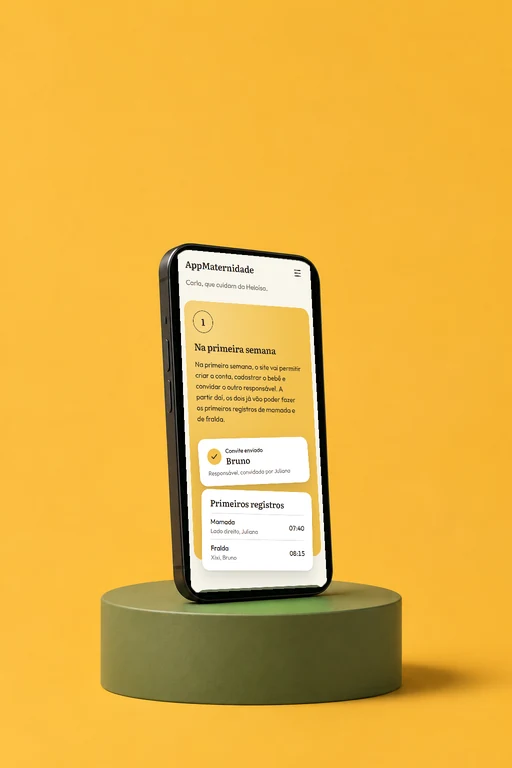
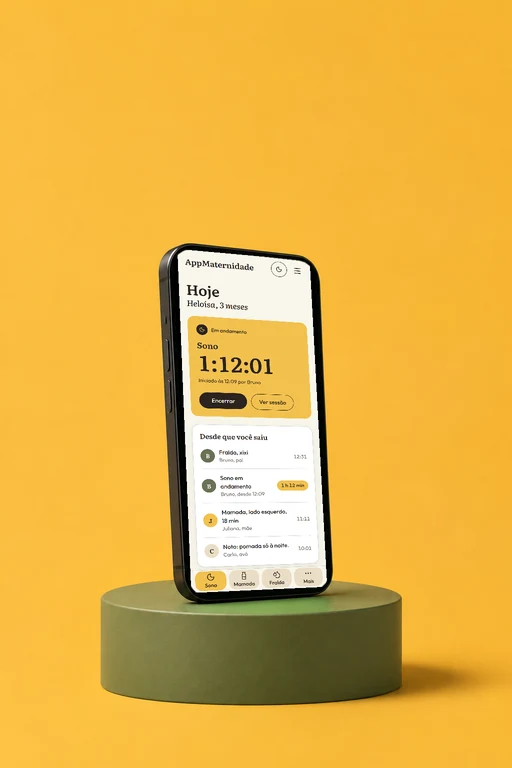
Recompõe as cenas de estúdio com as telas novas do app

Changed region(s): [[0.3438, 0.3125, 0.625, 0.7812]]

diff --git a/web/public/cenas/publicas/PROVENANCE.md b/web/public/cenas/publicas/PROVENANCE.md
@@ -6,3 +6,12 @@
 | desenvolvimento@1x.webp, desenvolvimento@2x.webp | `brutos/S3_tablets_cacau.png` (sha256 8d72fa3432647217545f9387bacfa310ce167c7592ec6a1554ed6521ea3d261d), same compositor with two real captures of this site at 390x844, scale 2 (`/desenvolvimento` scrolled 1100 px and 2600 px) | Codex image_gen (ChatGPT plan) for the scene; the screens are our own captures | 2026-11-11 | S3_tablets_cacau |
 
 Output sha256: `como-funciona@1x.webp` 26ac2d4cd38c7f3b753abcfc2ec20fc96121ae5ffc0d11b8afbad83b212983e7, `como-funciona@2x.webp` 080f5022d36bbb0f3ce7bd3e5c238601ac959af970c354d652333c01947ee19a, `desenvolvimento@1x.webp` 0df7d94fc5bb0c3aef7ae8e9542dfdbf80b20fd145b57acc30c53f49ab9b383c, `desenvolvimento@2x.webp` b1c092365c2098579c7101b11ed9f405cb82d9d2403f447d784f2b7f934d9db9. `compor.py` reported `verde_restante: 0` for both. The captures carry no "Protótipo" or "dados de exemplo" text (checked on the visible DOM text of each capture). The files keep these fixed names; card MAT-49d recomposes them later with the new app screens, with no code change.
+
+## Recomposed by MAT-49d (2026-11-11)
+
+Same scene sources and compositor (`compor.py`, `verde_restante: 0`); the screens are now window captures (not full-page) of the new app screens, deviceScaleFactor 2, reduced motion, from the MAT-49d worktree on base a8cad7d. Each capture height matches the aspect of its green screen, so the top of the screen is shown with no crop distortion. No "Protótipo" or "dados de exemplo" in the visible text of any capture.
+
+- como-funciona@1x.webp: scene `brutos/S2_unico_mel.png`; captures: Hoje (day) 390x1013; 2026-11-11; sha256 df97cd2ad79ebc160ec6a07bc6c19f7ab91276fc97d2a354e2fd586d607e8da4
+- como-funciona@2x.webp: scene `brutos/S2_unico_mel.png`; captures: Hoje (day) 390x1013; 2026-11-11; sha256 21a8ac7792bbbe038567711407952b89ea35eaad5f2be69e8819a6292fa88d1b
+- desenvolvimento@1x.webp: scene `brutos/S3_tablets_cacau.png`; captures: Sessão 900x1023, Hoje (day) 820x1123; 2026-11-11; sha256 76d77a7132bee01d252907db20c88389b9da9178a38ece5d84f4de185c8faec6
+- desenvolvimento@2x.webp: scene `brutos/S3_tablets_cacau.png`; captures: Sessão 900x1023, Hoje (day) 820x1123; 2026-11-11; sha256 51152c448ba6495f94c787323a5f792c01e23e296168d385b9957a424e136bfd

diff --git a/web/public/cenas/inicio/PROVENANCE.md b/web/public/cenas/inicio/PROVENANCE.md
@@ -16,3 +16,14 @@ Output sha256:
 - faixa-cacau@2x.webp 1f627752cf43caee885dbfefc5f6120a43b81f4bb065479c6dc6599e05c197d9
 - tabela@1x.webp f376e575952336c336d1dea7ef298c5e73da2e6c9d4d2c875db3cd920ad2867b
 - tabela@2x.webp ebe9d4a8374ca0926682183d110befa46121ec689603c28534172f92d41a9dff
+
+## Recomposed by MAT-49d (2026-11-11)
+
+Same scene sources and compositor (`compor.py`, `verde_restante: 0`); the screens are now window captures (not full-page) of the new app screens, deviceScaleFactor 2, reduced motion, from the MAT-49d worktree on base a8cad7d. Each capture height matches the aspect of its green screen, so the top of the screen is shown with no crop distortion. No "Protótipo" or "dados de exemplo" in the visible text of any capture.
+
+- heroi@1x.webp: scene `brutos/S1_trio_mel.png`; captures: Hoje (day) 390x1102, Hoje (Madrugada) 390x853, Sessão 390x1013; 2026-11-11; sha256 6616e183bc01fe4cee471625834535e91b194642a2b5ccf4920b2c78343a9d70
+- heroi@2x.webp: scene `brutos/S1_trio_mel.png`; captures: Hoje (day) 390x1102, Hoje (Madrugada) 390x853, Sessão 390x1013; 2026-11-11; sha256 5bb7e98daf18c80a2728d71fb9d4265195fb5d8158c52ad479cff827a0c63cfc
+- faixa-cacau@1x.webp: scene `brutos/S3_tablets_cacau.png`; captures: Hoje (day) 820x1123, Sessão 900x1023; 2026-11-11; sha256 baaef7cc40ef79eb75e486a57491405ffdf7c88777ba982773855c039868c3d6
+- faixa-cacau@2x.webp: scene `brutos/S3_tablets_cacau.png`; captures: Hoje (day) 820x1123, Sessão 900x1023; 2026-11-11; sha256 78d7e5e496373878e8008e000372d939dae869b07b233693df1b4d4b3f69f5c6
+- tabela@1x.webp: scene `brutos/S4_celular_linho.png`; captures: Hoje (day) 390x850; 2026-11-11; sha256 f65156590a9e7619e516ad662f440835ef0fefd2013cd7264e7d02f6ab12bb47
+- tabela@2x.webp: scene `brutos/S4_celular_linho.png`; captures: Hoje (day) 390x850; 2026-11-11; sha256 ee5fe93871ca5ef51f5739b4e48d9061d40dcf539b354cd2b7aa70e8017f2e84

diff --git a/web/public/cenas/acesso/PROVENANCE.md b/web/public/cenas/acesso/PROVENANCE.md
@@ -5,3 +5,10 @@
 | entrar@1x.webp, entrar@2x.webp | `brutos/S2_unico_mel.png` (sha256 e3557a14de3efbd2e00c619cfecf94dd9f5493d3670a8d4ad859ca7a435b8f94), green-key scene composited by `DIRECOES_20261111/ferramentas/compor.py` with one real capture of this site at 390x844, scale 2 (`/app/conta` scrolled to the "Perfil" section) | Codex image_gen (ChatGPT plan) for the scene; the screen is our own capture | 2026-11-11 | S2_unico_mel |
 
 Output sha256: `entrar@1x.webp` 250f80050258c8f40bb8dfd5cde2112b63b4efe489f270605b1331b1ae6aaac1, `entrar@2x.webp` 243a3df9f58a13e8387d2cef58aadbd12bcd30b2591b2b11f18a38b97e0b8221. `compor.py` reported `verde_restante: 0`. Used by Entrar, Criar conta, Recuperar acesso and Começar through `CenaAcesso`. MAT-49d recomposes the same file names with the new Hoje/Sessão screens.
+
+## Recomposed by MAT-49d (2026-11-11)
+
+Same scene sources and compositor (`compor.py`, `verde_restante: 0`); the screens are now window captures (not full-page) of the new app screens, deviceScaleFactor 2, reduced motion, from the MAT-49d worktree on base a8cad7d. Each capture height matches the aspect of its green screen, so the top of the screen is shown with no crop distortion. No "Protótipo" or "dados de exemplo" in the visible text of any capture.
+
+- entrar@1x.webp: scene `brutos/S2_unico_mel.png`; captures: Hoje (Madrugada) 390x1013; 2026-11-11; sha256 7a762d8a7c7513ec3b822d969fd889a146abb510e80d4668ddea235a872ee981
+- entrar@2x.webp: scene `brutos/S2_unico_mel.png`; captures: Hoje (Madrugada) 390x1013; 2026-11-11; sha256 c180671f6c2e7b5c19e22b7dfcf19c7c4a1f639f59ada0de19529a5956870d07
